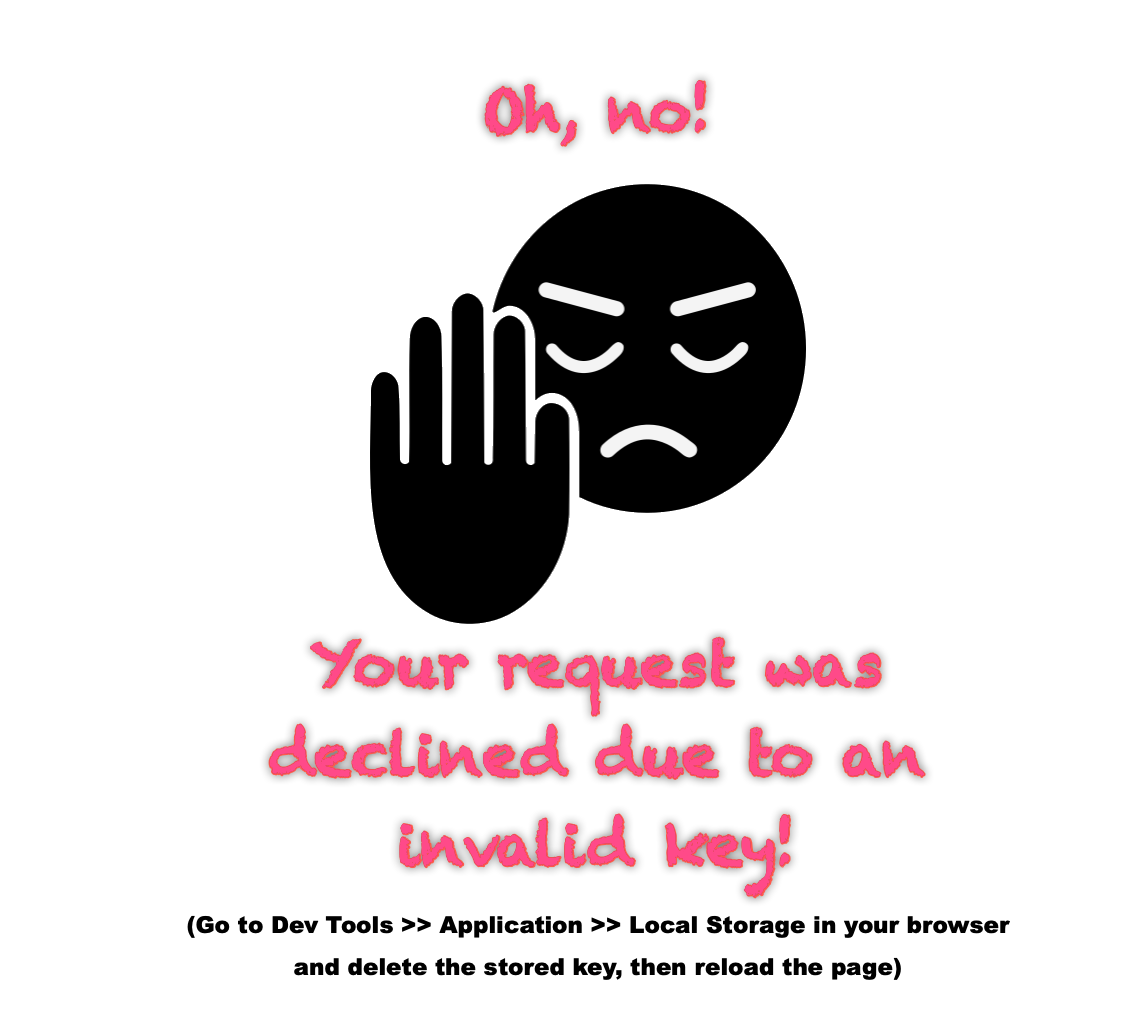
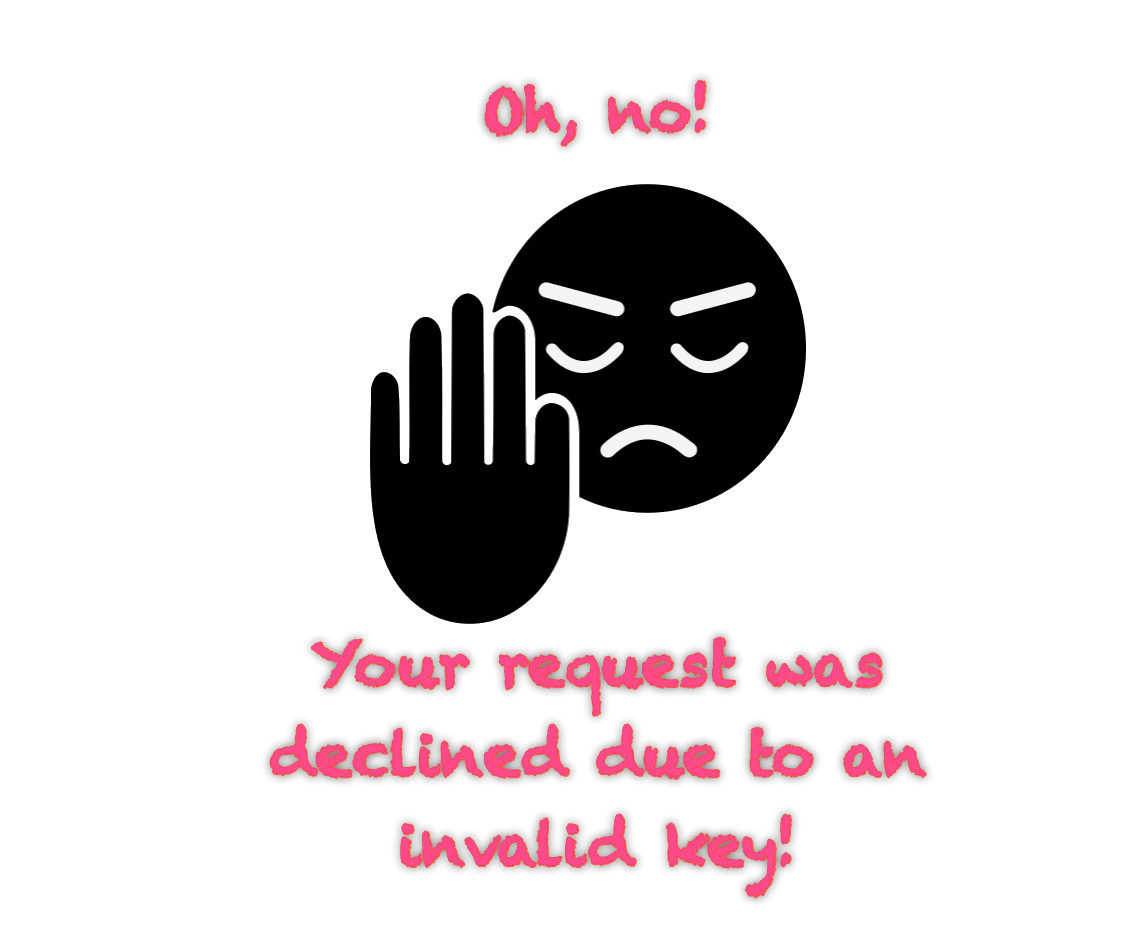
Differentiate error in UI based on status code

Changed region(s): [[0.1546, 0.0622, 0.8966, 0.9646]]

diff --git a/src/app/viewer/view-photos/view-photos.component.spec.ts b/src/app/viewer/view-photos/view-photos.component.spec.ts
@@ -5,6 +5,7 @@ import { HttpClientModule, HttpErrorResponse } from '@angular/common/http';
 import { NgxsModule, Select, Store } from '@ngxs/store';
 import { IPageInfo } from 'ngx-virtual-scroller';
 import { Observable, of, throwError } from 'rxjs';
+import { StatusCodes } from 'http-status-codes';
 
 import { ExecutionState, PhotoState } from 'src/app/state/photo.store';
 import { IImageService, ImageService } from 'src/app/services/image.service';
@@ -196,24 +197,20 @@ describe('ViewPhotosComponent', () => {
 
     it('displays no-search-started-graphic with no input', () => {
       fixture.detectChanges();
-      expect(find('#noSearchPerformed')).not.toBeNull();
-      expect(find('#noResultsFound')).toBeNull();
-      expect(find('#unauthorized')).toBeNull();
+      expectOnlyVisibleImage('noSearchPerformed');
     });
 
     it('displays no-results-graphic with some input but no results', () => {
       store.dispatch(new SetSearchString('any'));
       fixture.detectChanges();
-      expect(find('#noSearchPerformed')).toBeNull();
-      expect(find('#noResultsFound')).not.toBeNull();
-      expect(find('#unauthorized')).toBeNull();
+      expectOnlyVisibleImage('noResultsFound');
     });
 
-    it('displays unauthorized-graphic for failed results', () => {
+    it('displays unauthorized-graphic for authorization failure', () => {
       imageServiceSpy.loadPage.and
         .returnValue(throwError(
           new HttpErrorResponse({
-            status: 403,
+            status: StatusCodes.FORBIDDEN,
             statusText: 'OK',
             // This structure mimics what Chrome shows on an actual error
             error: { error: 'unauthorized' }
@@ -223,9 +220,23 @@ describe('ViewPhotosComponent', () => {
       store.dispatch(new SetSearchString('any'));
       fixture.detectChanges();
 
-      expect(find('#noSearchPerformed')).toBeNull();
-      expect(find('#noResultsFound')).toBeNull();
-      expect(find('#unauthorized')).not.toBeNull();
+      expectOnlyVisibleImage('unauthorized');
+    });
+
+    it('displays general-error-graphic for NON-authorization failure', () => {
+      imageServiceSpy.loadPage.and
+        .returnValue(throwError(
+          new HttpErrorResponse({
+            status: StatusCodes.GATEWAY_TIMEOUT,
+            statusText: 'OK',
+            error: { error: 'some other error' }
+          }))
+      );
+
+      store.dispatch(new SetSearchString('any'));
+      fixture.detectChanges();
+
+      expectOnlyVisibleImage('generalError');
     });
 
     it('does not display any graphic while loading', () => {
@@ -233,25 +244,7 @@ describe('ViewPhotosComponent', () => {
       component.fetchStatus = ExecutionState.Loading;
       fixture.detectChanges();
 
-      expect(find('#noSearchPerformed')).toBeNull();
-      expect(find('#noResultsFound')).toBeNull();
-      expect(find('#unauthorized')).toBeNull();
-
-      store.dispatch(new SetSearchString('any'));
-      fixture.detectChanges();
-      component.fetchStatus = ExecutionState.Loading;
-      fixture.detectChanges();
-
-      expect(find('#noSearchPerformed')).toBeNull();
-      expect(find('#noResultsFound')).toBeNull();
-      expect(find('#unauthorized')).toBeNull();
-      fixture.detectChanges();
-      component.fetchStatus = ExecutionState.Loading;
-      fixture.detectChanges();
-
-      expect(find('#noSearchPerformed')).toBeNull();
-      expect(find('#noResultsFound')).toBeNull();
-      expect(find('#unauthorized')).toBeNull();
+      expectOnlyVisibleImage();
     });
 
   });
@@ -342,6 +335,22 @@ describe('ViewPhotosComponent', () => {
 
   function findParentAs<T extends HTMLElement>(selector: string): T {
     return fixture.nativeElement.querySelector(selector).parentElement as T;
+  }
+
+  function findAllAs<T extends HTMLElement>(selector: string): T[] {
+    return Array.from((fixture.nativeElement as HTMLElement)
+      .querySelectorAll(selector))
+      .map(e => e as T);
+  }
+
+  function expectOnlyVisibleImage(imgId?: string): void {
+    findAllAs<HTMLImageElement>('.notice img').forEach(img => {
+      if (img.id === imgId) {
+        expect(img).not.toBeNull();
+      } else {
+        expect(img).toBeNull();
+      }
+    });
   }
 
 });

diff --git a/src/app/viewer/view-photos/view-photos.component.html b/src/app/viewer/view-photos/view-photos.component.html
@@ -24,9 +24,20 @@
       src="assets/graphics/set-empty-picture-frames-with-free-space-inside-isolated-white_76080-5386.jpeg" >
   </div>
    <div class="notice"
-    *ngIf="fetchStatus === ExecutionState.Failure">
+    *ngIf="fetchStatus === ExecutionState.Failure && (statusCode$ | async) === StatusCodes.FORBIDDEN">
     <img id="unauthorized" height="80%" width="80%"
       src="assets/graphics/unauthorized.png" >
+      <div class="notice-note">
+        (Go to Dev Tools >> Application >> Local Storage in your browser and delete the stored key, then reload the page)
+      </div>
+  </div>
+  <div class="notice"
+    *ngIf="fetchStatus === ExecutionState.Failure && (statusCode$ | async) !== StatusCodes.FORBIDDEN">
+    <img id="generalError" height="80%" width="80%"
+      src="assets/graphics/general-error.png" >
+      <div class="notice-note">
+        (Error code {{ statusCode$ | async }})
+      </div>
   </div>
   <div class="notice"
     *ngIf="fetchStatus === ExecutionState.Uninitialized && photos.length === 0 && searchString.length === 0">

diff --git a/src/app/viewer/view-photos/view-photos.component.ts b/src/app/viewer/view-photos/view-photos.component.ts
@@ -4,6 +4,7 @@ import { Select, Store } from '@ngxs/store';
 import { Observable } from 'rxjs';
 import { filter } from 'rxjs/operators';
 import { IPageInfo } from 'ngx-virtual-scroller';
+import { StatusCodes } from 'http-status-codes';
 
 import { ExecutionState, PhotoState } from 'src/app/state/photo.store';
 import { Photo } from 'src/app/models/Photo';
@@ -23,10 +24,12 @@ export class ViewPhotosComponent implements OnInit {
   searchString = '';
 
   ExecutionState = ExecutionState; // This peculiar statement exposes the enum in the template.
+  StatusCodes = StatusCodes;
 
   constructor(private store: Store, private ngZone: NgZone) {}
 
   @Select(PhotoState.fetchStatus) fetchStatus$!: Observable<ExecutionState>;
+  @Select(PhotoState.statusCode) statusCode$!: Observable<StatusCodes>;
   @Select(PhotoState.endOfInputReached) endOfInputReached$!: Observable<boolean>;
   @Select(PhotoState.photos) photos$!: Observable<Photo[]>;
   @Select(PhotoState.searchString) searchString$!: Observable<string>;

diff --git a/src/app/state/photo.store.ts b/src/app/state/photo.store.ts
@@ -55,6 +55,11 @@ export class PhotoState {
   }
 
   @Selector()
+  public static statusCode(state: PhotoStateModel): StatusCodes {
+    return state.statusCode;
+  }
+
+  @Selector()
   public static photos(state: PhotoStateModel): Photo[] {
     return state.photos;
   }

diff --git a/src/app/viewer/view-photos/view-photos.component.scss b/src/app/viewer/view-photos/view-photos.component.scss
@@ -53,6 +53,10 @@
     left: 50%;
     margin-right: -50%;
     transform: translate(-50%, -50%);
+
+    .notice-note {
+      margin: 0 20vw;
+    }
   }
 
   app-base-modal {

diff --git a/src/assets/README.md b/src/assets/README.md
@@ -3,3 +3,4 @@
 - No search done yet (treasure chest): https://webstockreview.net/
 - No results (empty picture frames): https://www.freepik.com/
 - Rejected/unauthorized: https://www.clipsafari.com/
+- Unknown error: https://www.clipsafari.com/clips/o212278-unknown-document-icon
